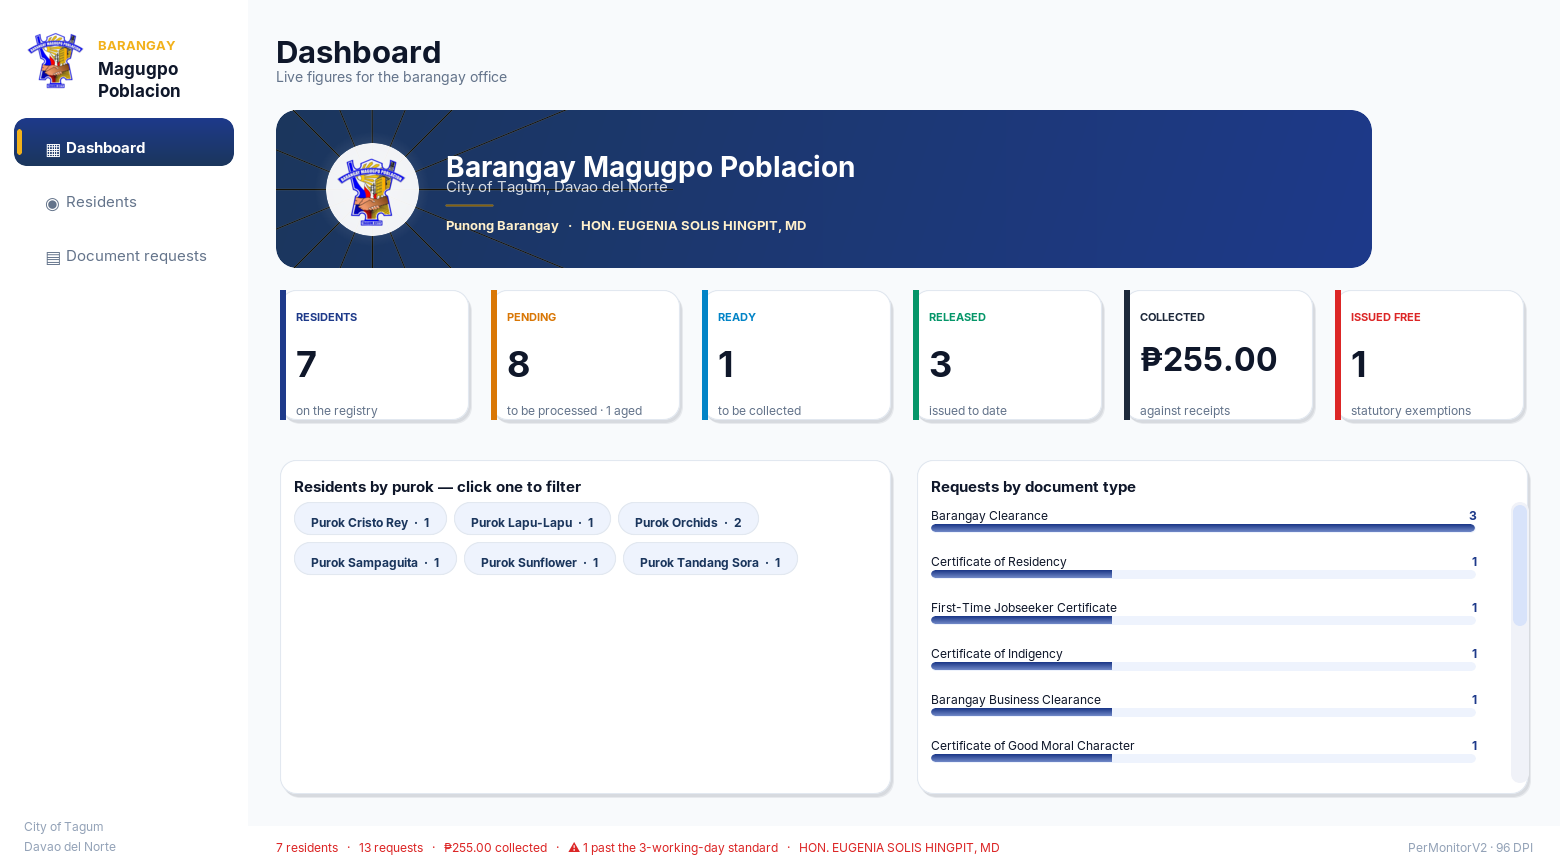
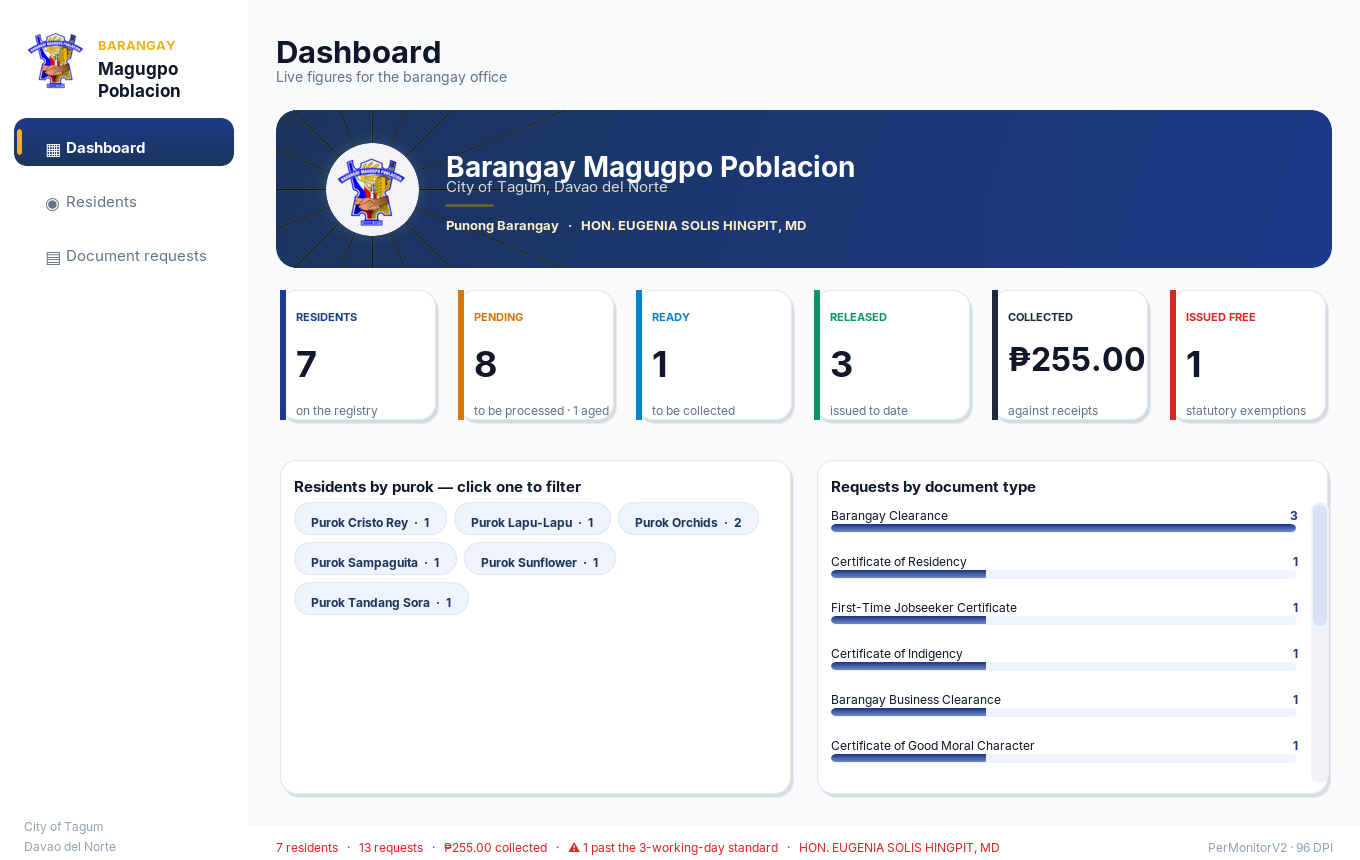
v3.1.5: dashboard refactor under the UI safety constraints
- DashboardView: all styling consolidated into ApplyModernUIStyles(),
  called after the structural constructor work (the view's equivalent
  of the InitializeComponent-then-style contract). No Designer.cs, no
  .slnx/.csproj, no handler and no binding touched: 3 click wirings
  and 20 Controls.Add parenting calls before and after.
- Constraint-4 fix proven: six 178px tiles needed 1138px but the
  default 1360x860 window offers a 1056px content pane, so the grid
  wrapped. Tile floor 178 -> 160 fits six abreast; the preview is
  regenerated AT 1360x860 showing the one-row grid natively.
- Hero, chips, bars unchanged in structure - the target layout was
  already in place; this round makes it compliant and stable.

diff --git a/BarangayDocumentSystem/DashboardView.cs b/BarangayDocumentSystem/DashboardView.cs
@@ -211,50 +211,35 @@ public class DashboardView : ViewBase
 
         _hero.Dock = DockStyle.Top;
         _hero.Height = 158;
-        _hero.Margin = new Padding(0, 0, 0, Gap);
 
         _stats.Name = "flowStats";
         _stats.Dock = DockStyle.Top;
         _stats.AutoSize = true;
         _stats.AutoSizeMode = AutoSizeMode.GrowAndShrink;
         _stats.WrapContents = true;
-        _stats.BackColor = Color.Transparent;
-        _stats.Padding = new Padding(0, Gap, 0, 0);
 
         _purokTitle.Text = "Residents by purok — click one to filter";
-        _purokTitle.Font = Subhead;
-        _purokTitle.ForeColor = Ink;
         _purokTitle.Dock = DockStyle.Top;
         _purokTitle.Height = 32;
-        _purokTitle.BackColor = Color.Transparent;
 
         _purokChips.Dock = DockStyle.Fill;
         _purokChips.AutoScroll = true;
         _purokChips.WrapContents = true;
-        _purokChips.BackColor = Color.Transparent;
 
         _cardPurok.Dock = DockStyle.Fill;
-        _cardPurok.Margin = new Padding(0, 0, 9, 0);
-        _cardPurok.Padding = new Padding(18, 14, 14, 14);
         _cardPurok.Controls.Add(_purokChips);
         _cardPurok.Controls.Add(_purokTitle);
 
         _docTypesTitle.Text = "Requests by document type";
-        _docTypesTitle.Font = Subhead;
-        _docTypesTitle.ForeColor = Ink;
         _docTypesTitle.Dock = DockStyle.Top;
         _docTypesTitle.Height = 32;
-        _docTypesTitle.BackColor = Color.Transparent;
 
         _docTypeBars.Dock = DockStyle.Fill;
         _docTypeBars.AutoScroll = true;
         _docTypeBars.WrapContents = false;
         _docTypeBars.FlowDirection = FlowDirection.TopDown;
-        _docTypeBars.BackColor = Color.Transparent;
 
         _cardDocTypes.Dock = DockStyle.Fill;
-        _cardDocTypes.Margin = new Padding(9, 0, 0, 0);
-        _cardDocTypes.Padding = new Padding(18, 14, 14, 14);
         _cardDocTypes.Controls.Add(_docTypeBars);
         _cardDocTypes.Controls.Add(_docTypesTitle);
 
@@ -264,8 +249,6 @@ public class DashboardView : ViewBase
         _breakdown.Dock = DockStyle.Fill;
         _breakdown.ColumnCount = 2;
         _breakdown.RowCount = 1;
-        _breakdown.BackColor = Color.Transparent;
-        _breakdown.Padding = new Padding(0, Gap, 0, 0);
         _breakdown.ColumnStyles.Add(new ColumnStyle(SizeType.Percent, 50f));
         _breakdown.ColumnStyles.Add(new ColumnStyle(SizeType.Percent, 50f));
         _breakdown.Controls.Add(_cardPurok, 0, 0);
@@ -274,6 +257,50 @@ public class DashboardView : ViewBase
         Controls.Add(_breakdown);
         Controls.Add(_stats);
         Controls.Add(_hero);
+
+        // Structure is set; now the look. Every colour, font and spacing
+        // this view owns is applied in one dedicated pass, strictly AFTER
+        // the structural setup above - the same contract the designer
+        // -backed forms follow with ApplyTheme()/BuildUi() after
+        // InitializeComponent().
+        ApplyModernUIStyles();
+    }
+
+    /// <summary>
+    /// The single place this view's modern-UI styling is applied: theme
+    /// fonts, colours, spacing and card metrics. No control parenting, no
+    /// event wiring, no structure - those live in the constructor, so a
+    /// restyle can never accidentally re-parent or re-wire anything.
+    /// </summary>
+    private void ApplyModernUIStyles()
+    {
+        // hero banner metrics (the navy gradient itself is painted in HeroBanner.OnPaint)
+        _hero.Margin = new Padding(0, 0, 0, Gap);
+
+        // stats strip
+        _stats.BackColor = Color.Transparent;
+        _stats.Padding = new Padding(0, Gap, 0, 0);
+
+        // breakdown section titles
+        _purokTitle.Font = Subhead;
+        _purokTitle.ForeColor = Ink;
+        _purokTitle.BackColor = Color.Transparent;
+
+        _docTypesTitle.Font = Subhead;
+        _docTypesTitle.ForeColor = Ink;
+        _docTypesTitle.BackColor = Color.Transparent;
+
+        // breakdown cards and their content surfaces
+        _cardPurok.Margin = new Padding(0, 0, 9, 0);
+        _cardPurok.Padding = new Padding(18, 14, 14, 14);
+        _purokChips.BackColor = Color.Transparent;
+
+        _cardDocTypes.Margin = new Padding(9, 0, 0, 0);
+        _cardDocTypes.Padding = new Padding(18, 14, 14, 14);
+        _docTypeBars.BackColor = Color.Transparent;
+
+        _breakdown.BackColor = Color.Transparent;
+        _breakdown.Padding = new Padding(0, Gap, 0, 0);
     }
 
     /// <summary>The barangay seal, shown in the hero banner.</summary>
@@ -310,10 +337,15 @@ public class DashboardView : ViewBase
         // than fixing it at 244px. With six tiles and a fixed width, the last
         // two dropped onto a second row and fell off the bottom on a normal
         // screen - I only saw that when I rendered the layout and looked at it.
+        //
+        // v3.1.5: the floor drops 178 -> 160 because 178 STILL wrapped the
+        // sixth tile at the default 1360x860 window: the content pane is
+        // 1056px there and six 178px tiles need 1138px. Six 160px tiles need
+        // 1030px, which fits - and 160 still clears the widest tile content.
         const int tiles = 6;
         const int gap = 14;
         int avail = Math.Max(600, ClientSize.Width - Padding.Horizontal);
-        int tileW = Math.Max(178, (avail - (gap * (tiles - 1))) / tiles);
+        int tileW = Math.Max(160, (avail - (gap * (tiles - 1))) / tiles);
 
         _stats.Controls.Clear();
         _stats.Controls.Add(MakeStat("Residents", s.TotalResidents.ToString(),

diff --git a/README.md b/README.md
@@ -146,6 +146,25 @@ exact. `docs/dashboard-preview.png` was regenerated to match.
 
 ---
 
+## What changed in v3.1.5
+
+A stability-and-structure round on the dashboard, under the team's
+refactor safety constraints (source files only; designer code untouched):
+
+- All of `DashboardView`'s styling now lives in one dedicated
+  **`ApplyModernUIStyles()`** method called at the end of the constructor,
+  after the structural setup — the same pattern the designer-backed forms
+  follow with `BuildUi()`/`ApplyTheme()` after `InitializeComponent()`.
+  Structure, parenting and event wiring stay in the constructor, so a
+  restyle can never re-parent or re-wire anything.
+- **The six-card grid no longer wraps** at the default 1360×860 window:
+  the tile floor drops 178 → 160px (six 178px tiles needed 1138px inside
+  a 1056px pane; six 160px tiles need 1030px). The reference preview in
+  `docs/dashboard-preview.png` is regenerated at the default window size
+  to prove it.
+
+---
+
 ## The six core technical fixes
 
 1. **Designer support.** `packages.config` lists the accessibility
